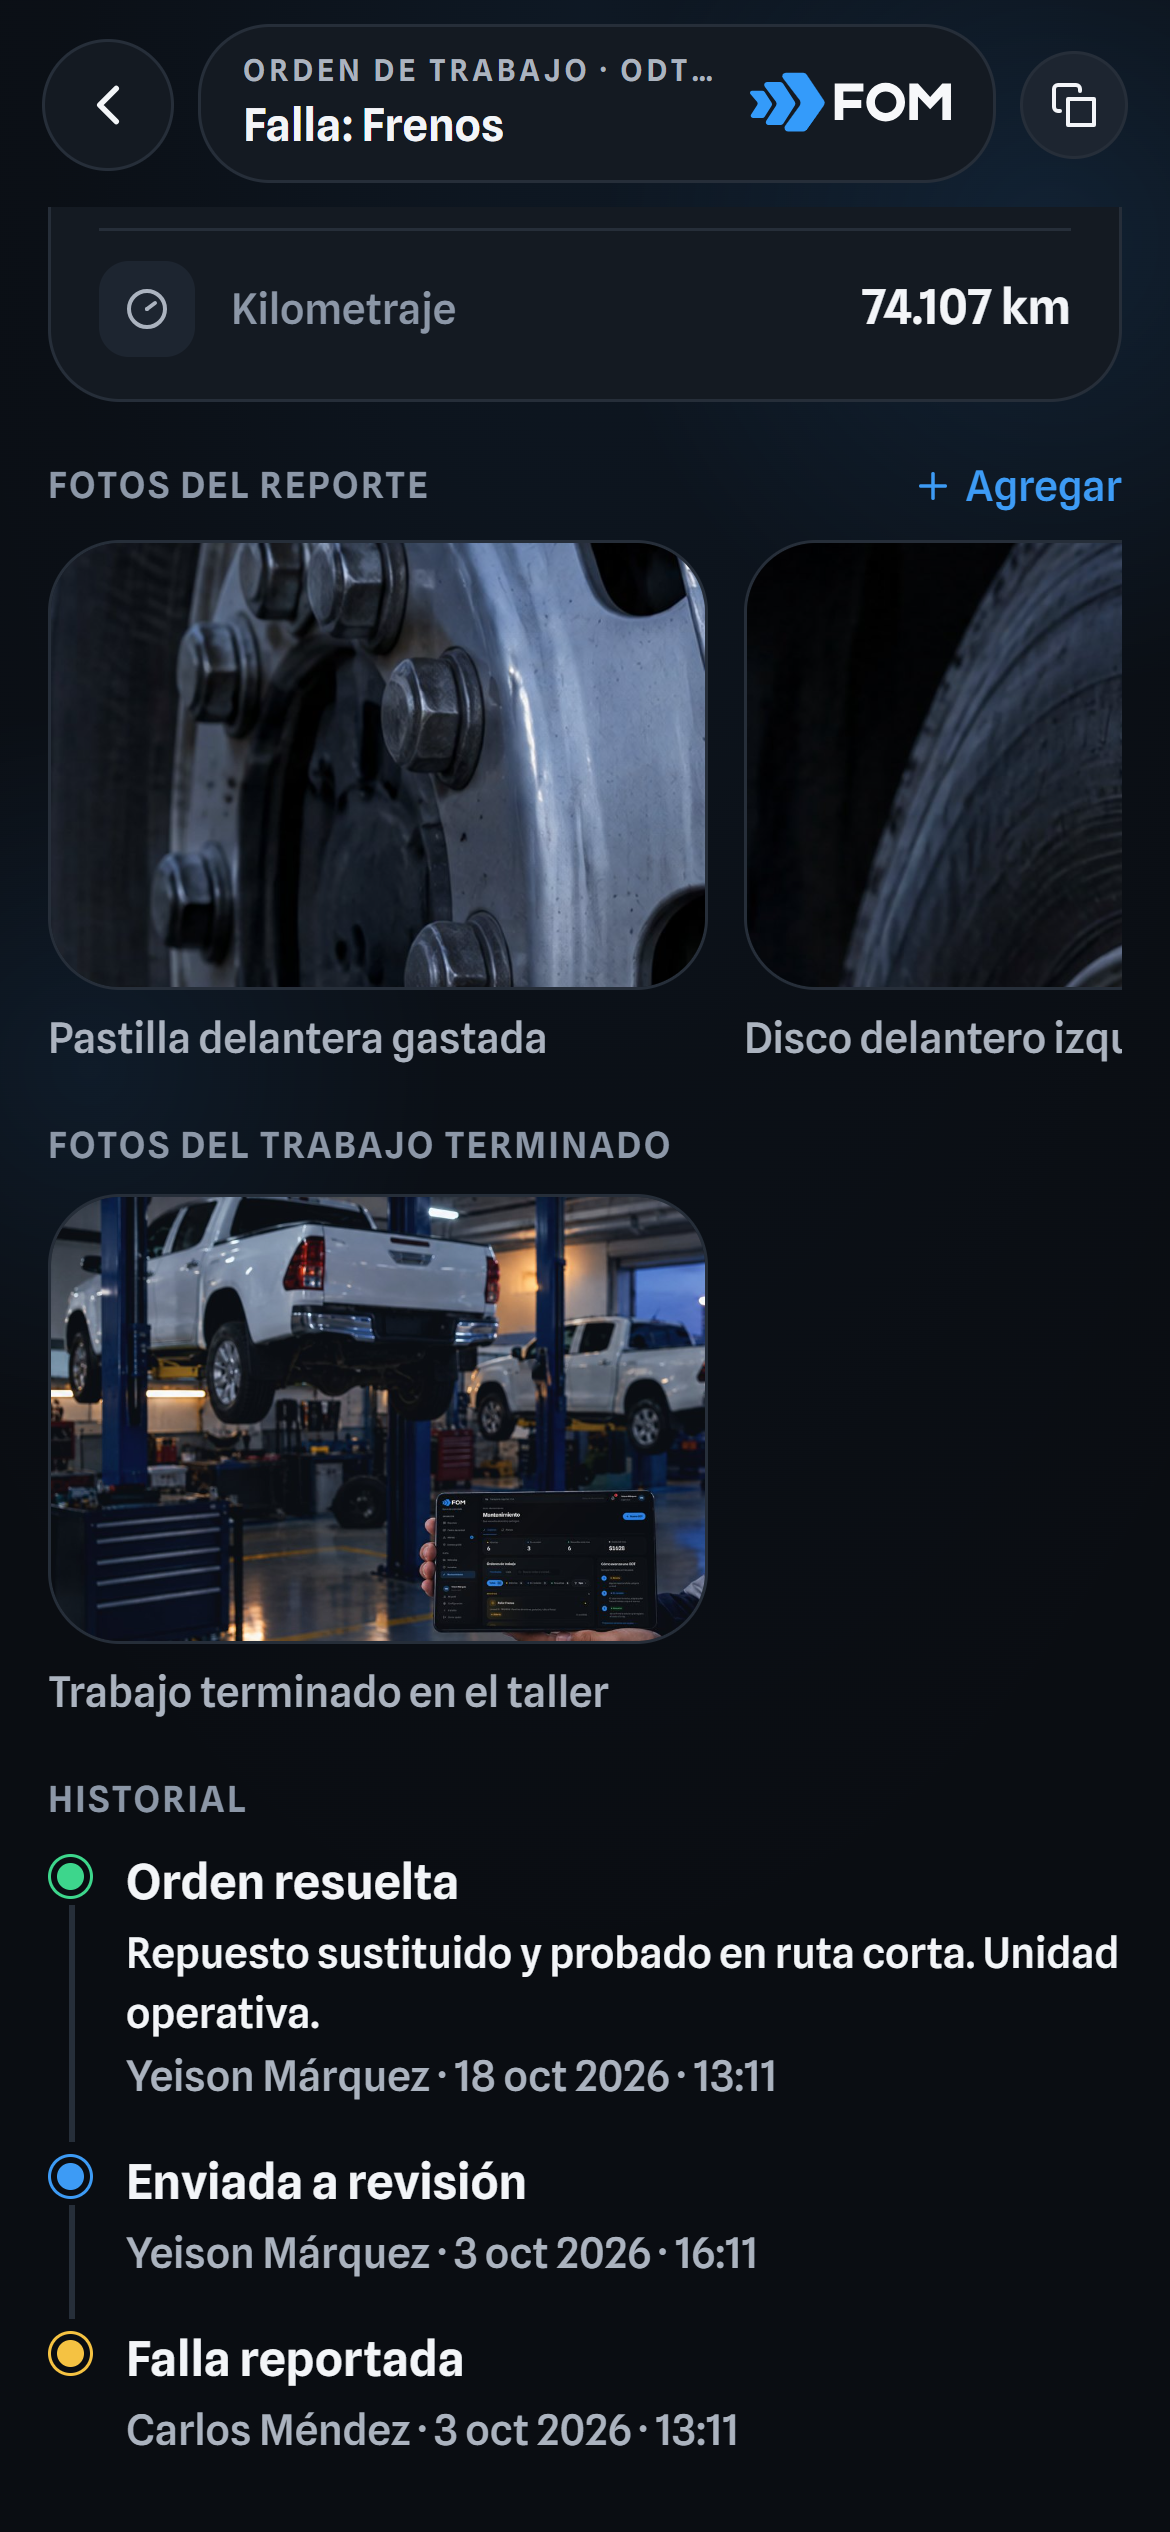
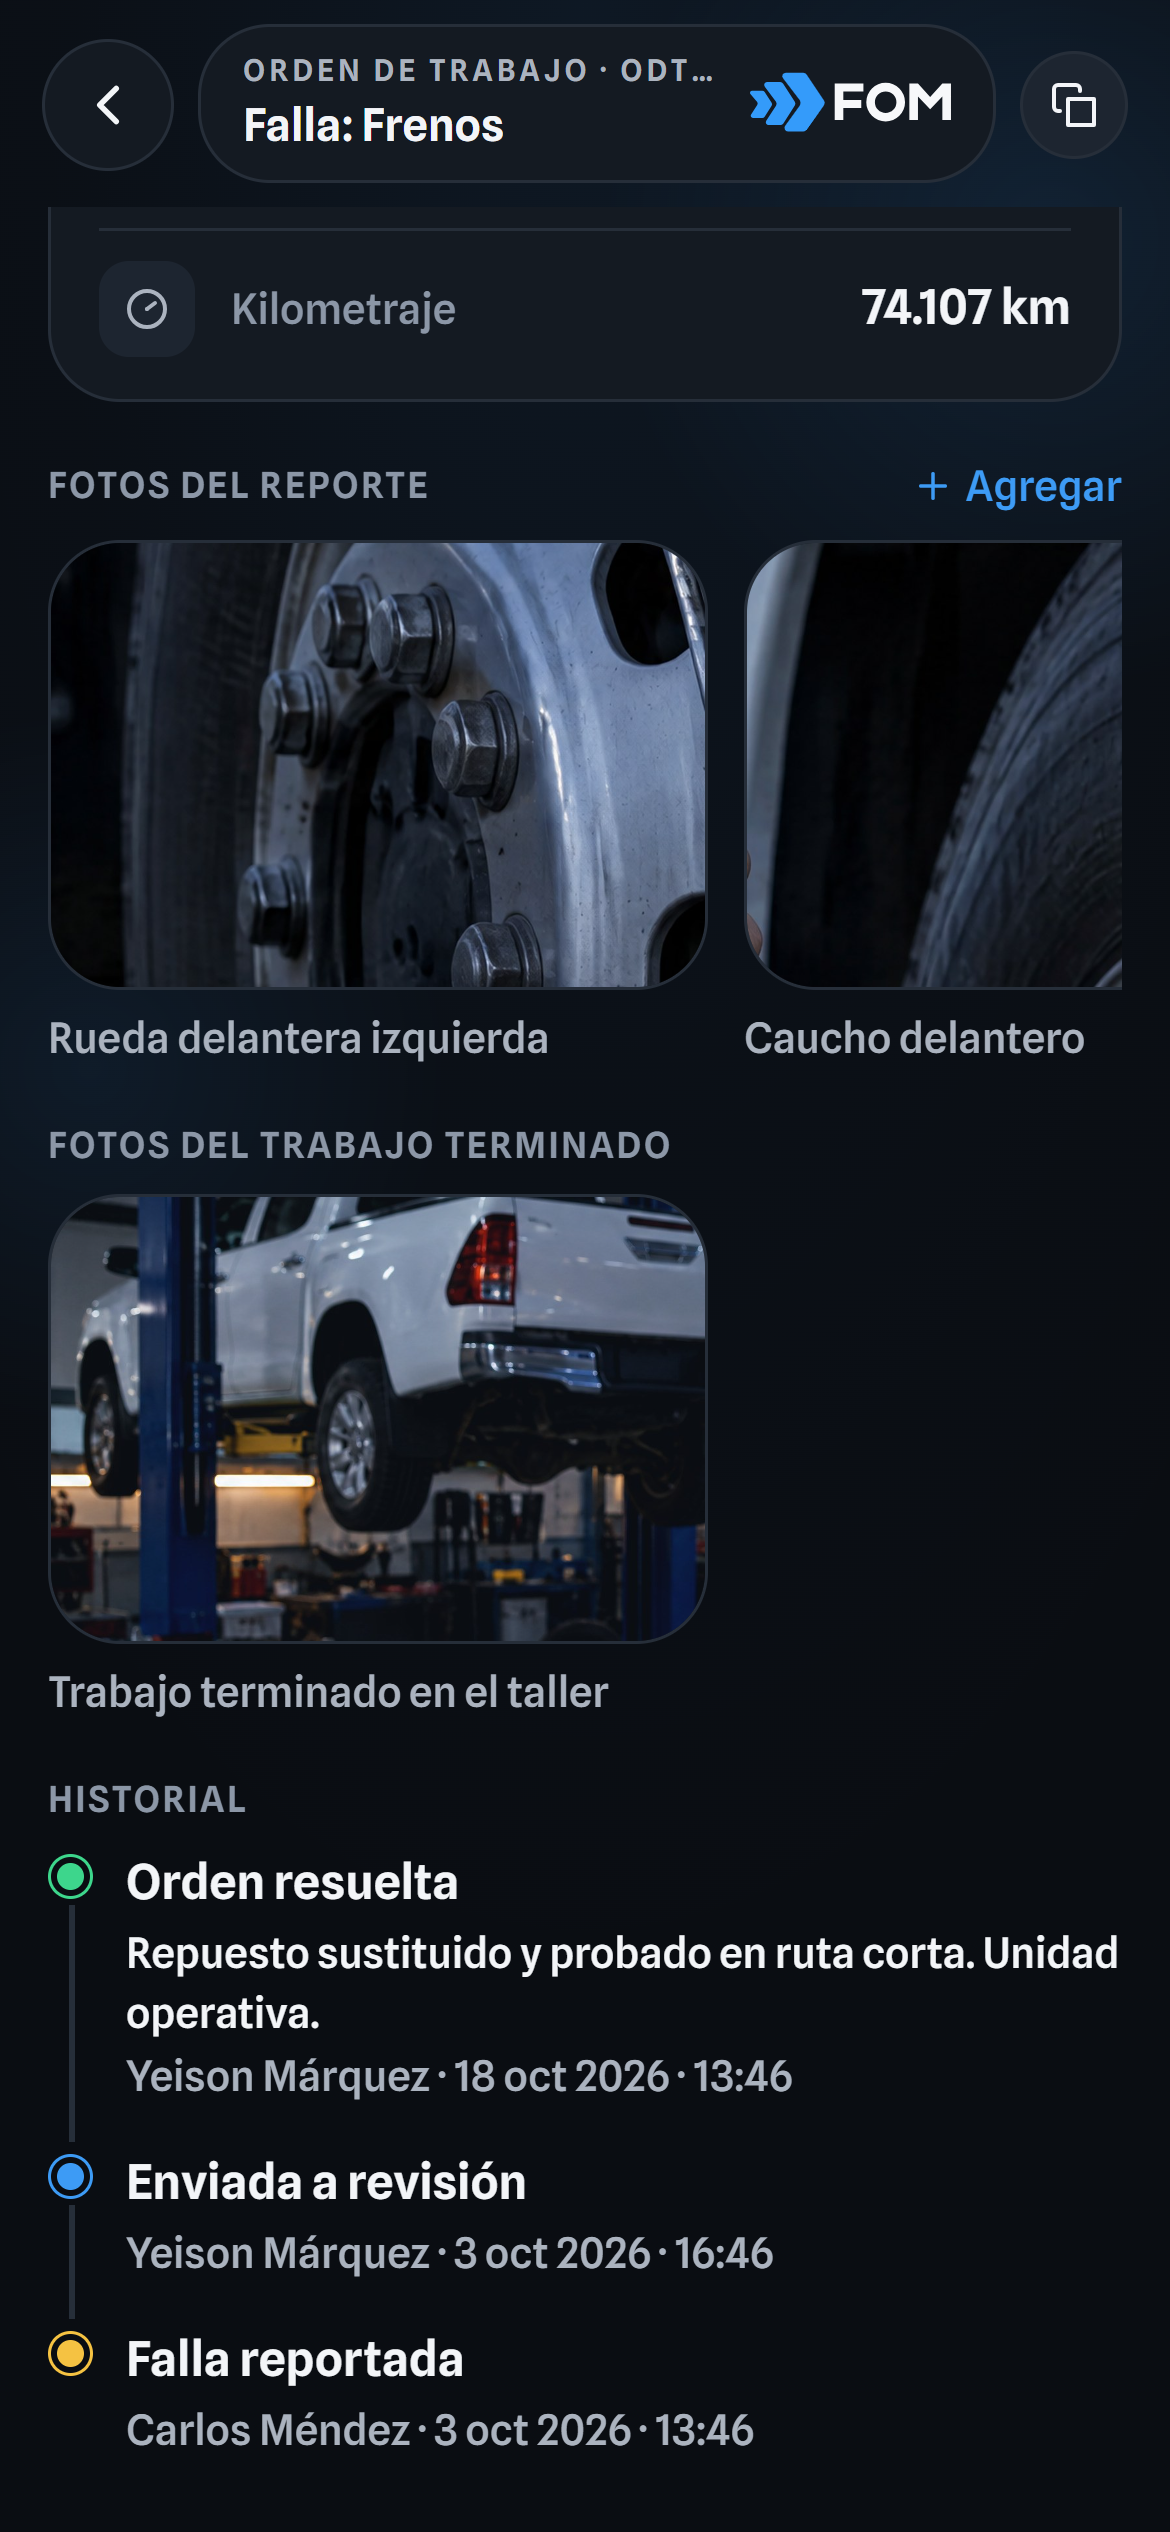
Capturas de la app real con el servidor de prueba: conductor y supervisor completos (44), índice con las parejas de la web, datos de demo más realistas y fuera las fotos de órdenes hechas con IA (T-147)

diff --git a/tools/app-demo-api/preparar_fotos.py b/tools/app-demo-api/preparar_fotos.py
@@ -1,85 +1,64 @@
-# Fotos de la demo de la app (T-147), sacadas de imágenes que ya están en el repo. Nada de IA.
+# Fotos de la demo de la app (T-147): recorta fotos de vehículos con LICENCIA LIBRE al tamaño
+# que pide cada sitio de la app. Nada generado con IA ni sacado de las fotos de la web.
 #
-#   python tools/app-demo-api/preparar_fotos.py
+#   python tools/app-demo-api/preparar_fotos.py <nombre> <foto de origen> [x0 y0 x1 y1]
 #
-# - hilux-2022.png: la Hilux 2022 del panel (src/assets/hilux.png, render con transparencia
-#   suave y bordes limpios), pintada en plata como la Unidad 01 y sin la matrícula de muestra. La de la app (fom-driver-juan/assets/.../hilux.png) tiene el borde serruchado y
-#   un damero pegado detrás de los vidrios: capturar.mjs sirve ésta en su lugar.
-# - falla-1/2, luz-trasera, taller: recortes de fotos del paquete de la web.
-import colorsys
+# <nombre> es uno de los de abajo; la caja opcional (px de la foto de origen) elige el recorte
+# a mano; sin caja se centra. La foto queda en fotos/ y el servidor falso la sirve sola: lo que
+# no está en fotos/ no sale en la app (la orden se ve sin fotos, la unidad sin vehículo).
+#
+# - toyota-hilux.png   la unidad (Toyota Hilux) en la tarjeta de Reportar, la ficha y Mi unidad.
+#                       (datos.mjs → fotoDeVehiculo busca <marca>-<modelo>[-16x9|-4x3].jpg|.png aquí y
+#                       en comparativa/fotos-vehiculos/recortes; solo la Hilux sale en la app).
+#                       La app la pinta con «contain» sobre la tarjeta oscura: mejor recortada al
+#                       vehículo entero, 3/4 delantero mirando a la izquierda, con poco aire.
+#                       Si trae fondo, se ve como un rectángulo: lo ideal es fondo transparente.
+# - falla-1.jpg / falla-2.jpg  fotos del reporte de una orden de frenos (rueda, caucho).
+# - taller.jpg                 foto del trabajo terminado (la camioneta en el taller).
+import sys
 from pathlib import Path
 
-from PIL import Image, ImageDraw
+from PIL import Image
 
-RAIZ = Path(__file__).resolve().parents[2]
 SALIDA = Path(__file__).resolve().parent / 'fotos'
-SALIDA.mkdir(exist_ok=True)
+
+# nombre → (ancho, alto) final
+TAMANOS = {
+    'toyota-hilux.png': (1360, 820),
+    'falla-1.jpg': (1000, 750),
+    'falla-2.jpg': (1000, 750),
+    'taller.jpg': (1000, 750),
+}
 
 
-def sombra_de_piso(im, dx=0, dy=0):
-    # La sombra del piso viene en gris OPACO (pensada para fondo blanco): sobre la tarjeta
-    # oscura se veía como una mancha clara. Debajo de la carrocería, todo lo gris que no es
-    # caucho pasa a sombra de verdad: negro, más opaco donde la original era más oscura.
+def recortar(nombre, origen, caja=None):
+    ancho, alto = TAMANOS[nombre]
+    im = Image.open(origen)
+    im = im.convert('RGBA' if nombre.endswith('.png') else 'RGB')
+    if caja:
+        im = im.crop(caja)
+    # Recorte centrado a la proporción final, sin deformar.
     w, h = im.size
-    px = im.load()
-    ruedas = [(692 + dx, 672 + dy, 140), (1234 + dx, 483 + dy, 112), (190 + dx, 615 + dy, 118)]  # centro y radio
-
-    def en_piso(x, y):
-        return y > h * 0.6
-
-    for y in range(h):
-        for x in range(w):
-            r, g, b, a = px[x, y]
-            if not a or not en_piso(x, y) or max(r, g, b) - min(r, g, b) >= 30:
-                continue
-            # Los rines (claros) se respetan enteros; del caucho, lo oscuro.
-            if any((x - cx) ** 2 + (y - cy) ** 2 < (rr * 0.66) ** 2 for cx, cy, rr in ruedas):
-                continue
-            lum = 0.2126 * r + 0.7152 * g + 0.0722 * b
-            if lum < 58:
-                continue
-            px[x, y] = (0, 0, 0, int(min(190, max(0, (250 - lum) * 1.5)) * a / 255))
-
-
-def hilux():
-    im = Image.open(RAIZ / 'src/assets/hilux.png').convert('RGBA')
-    w, h = im.size
-    px = im.load()
-    # Antes de pintar: la carrocería todavía es roja y no se confunde con la sombra gris.
-    x0, y0, _, _ = im.getbbox()
-    sombra_de_piso(im, x0, y0)
-    # Rojo → plata: lo rojo (también los brillos rosados) pasa a gris con su mismo sombreado.
-    # Las luces traseras (al fondo, a la derecha) se dejan rojas.
-    for y in range(h):
-        for x in range(w):
-            r, g, b, a = px[x, y]
-            if a == 0:
-                continue
-            hue, sat, val = colorsys.rgb_to_hsv(r / 255, g / 255, b / 255)
-            rojo = (hue < 0.06 or hue > 0.93) and (sat > 0.18 or (sat > 0.06 and val > 0.55))
-            if rojo and not (x > w * 0.955 and y < h * 0.42):
-                v = int(min(246, 10 + val * 255 * 0.9))
-                px[x, y] = (v - 3, v, v + 4, a)
-    # La matrícula de muestra («HUM3D»), en blanco liso, sin letras.
-    d = ImageDraw.Draw(im)
-    d.polygon([(64, 99 + 443), (208, 115 + 443), (208, 162 + 443), (61, 146 + 443)], fill=(232, 234, 237, 255))
-    # Recorte a lo que de verdad se ve (sin la sombra tenue de los extremos): así ocupa en la
-    # tarjeta lo mismo que la foto de la app, que es más apaisada.
-    im = im.crop(im.getchannel('A').point(lambda a: 255 if a > 110 else 0).getbbox())
-    im.save(SALIDA / 'hilux-2022.png', optimize=True)
-    return im
-
-
-def recortes():
-    a = Image.open(RAIZ / 'comparativa/web-v8-fotos/fotos-generadas-higgsfield/tecnico-telefono-vacio-4k.png').convert('RGB')
-    a.crop((3200, 1300, 3840, 1780)).resize((1000, 750), Image.LANCZOS).save(SALIDA / 'falla-1.jpg', quality=88)
-    a.crop((3160, 640, 3840, 1150)).resize((1000, 750), Image.LANCZOS).save(SALIDA / 'falla-2.jpg', quality=88)
-    b = Image.open(RAIZ / 'comparativa/web-v8-fotos/maestros/taller-mantenimiento.jpg').convert('RGB')
-    b.crop((0, 40, 1000, 790)).resize((1000, 750), Image.LANCZOS).save(SALIDA / 'taller.jpg', quality=88)
-    b.crop((380, 0, 1100, 620)).resize((900, 775), Image.LANCZOS).save(SALIDA / 'luz-trasera.jpg', quality=88)
+    objetivo = ancho / alto
+    if w / h > objetivo:
+        nw = round(h * objetivo)
+        im = im.crop(((w - nw) // 2, 0, (w - nw) // 2 + nw, h))
+    else:
+        nh = round(w / objetivo)
+        im = im.crop((0, (h - nh) // 2, w, (h - nh) // 2 + nh))
+    im = im.resize((ancho, alto), Image.LANCZOS)
+    SALIDA.mkdir(exist_ok=True)
+    destino = SALIDA / nombre
+    if nombre.endswith('.png'):
+        im.save(destino, optimize=True)
+    else:
+        im.save(destino, quality=88)
+    return destino
 
 
 if __name__ == '__main__':
-    recortes()
-    hilux()
-    print('fotos listas en', SALIDA)
+    if len(sys.argv) not in (3, 7) or sys.argv[1] not in TAMANOS:
+        print(__doc__ or '', 'Nombres:', ', '.join(TAMANOS))
+        sys.exit(1)
+    caja = tuple(int(v) for v in sys.argv[3:7]) if len(sys.argv) == 7 else None
+    print('lista:', recortar(sys.argv[1], sys.argv[2], caja))

diff --git a/comparativa/web-v8-fotos/capturas-app/INDICE-APP.md b/comparativa/web-v8-fotos/capturas-app/INDICE-APP.md
@@ -1,0 +1,128 @@
+# Capturas de la APP real (T-147)
+
+La app de Juan (`fom-driver-juan`, Expo web) con datos de demostración del servidor falso
+`tools/app-demo-api` (Transporte Lago Sur, Zulia). Teléfono 390 × 844 px CSS a 3x (1170 × 2532),
+modo oscuro, «reducir movimiento». Cómo se sacan: ver los comentarios de
+`tools/app-demo-api/servidor.mjs`, `app-expo.mjs` y `capturar.mjs`.
+
+Cuentas: conductor@fom.com.ve (Carlos Méndez, Unidad U-001 · Z69FC7W, Toyota Hilux 2022) y
+supervisor@fom.com.ve (Yeison Márquez).
+
+Ajuste en las capturas: en la web de la app, react-native-web ignora el `paddingTop` /
+`paddingLeft` de las tarjetas de cifras con ícono (`KpiResumen`) y el ícono tapa el título. En el
+teléfono salen bien. Antes de cada foto se les pone el relleno que pide el código
+(70 px arriba / 80 px a la izquierda). Afecta a m-sup-resumen y m-sup-resumen-cifras.
+
+## Cada captura
+
+Columna «Repetir»: **foto** = sale la Hilux que traía el disco (no vale, hay que sacarla otra vez
+con la foto con licencia); **IA** = salen fotos de orden recortadas de imágenes generadas con IA
+(se borraron de `tools/app-demo-api/fotos`; hay que repetirla con fotos con licencia o sin fotos).
+
+| Archivo (3x/) | Rol | Pantalla | Reemplaza a (web) | Repetir |
+|---|---|---|---|---|
+| m-cond-inicio.png | Conductor | Mi unidad, hoja abierta: Hilux, 61 km/h, placa | cap-movil-cond-inicio | foto |
+| m-cond-inicio-indice.png | Conductor | Mi unidad: índice 83/100 «Puedes mejorar» | — (extra) | |
+| m-cond-inicio-telemetria.png | Conductor | Mi unidad: telemetría y odómetro | — (extra) | |
+| m-cond-mapa.png | Conductor | Mi mapa (la unidad en el mapa, SOS) | cap-movil-cond-mapa | |
+| m-cond-perfil.png | Conductor | Mi perfil: índice 83/100 y eventos por 100 km | cap-movil-cond-perfil | |
+| m-cond-inspeccion.png | Conductor | Inspección diaria (hoja por llenar) | — (extra) | |
+| m-cond-insp-foto.png | Conductor | Inspección: falla con foto | — (extra) | IA |
+| m-insp-resultado.png | Conductor | Resultado de inspección con observación | cap-movil-insp-resultado | |
+| m-insp-bloqueada.png | Conductor | Inspección bloqueada (no puede salir) | cap-movil-insp-bloqueada | |
+| m-cond-mantenimiento.png | Conductor | Mantenimiento de mi unidad | cap-movil-cond-mantenimiento | |
+| m-cond-mantenimiento-lista.png | Conductor | Mantenimiento: lista de órdenes | — (extra) | |
+| m-cond-asignadas.png | Conductor | Asignadas a ti (2 órdenes) | cap-movil-mnt-asignadas | |
+| m-cond-reportar.png | Conductor | Reportar una falla (frenos, alta) | cap-movil-mnt-reportar | foto |
+| m-cond-reportar-fotos.png | Conductor | Reportar una falla con fotos | cap-movil-mnt-reportar-fotos | foto + IA |
+| m-cond-reportar-larga.png | Conductor | Reportar una falla, pantalla larga | — (extra) | foto + IA |
+| m-cond-orden-resuelta.png | Conductor | Orden resuelta (cierre y costo) | — (extra) | |
+| m-cond-orden-fotos.png | Conductor | Orden: fotos del reporte y del cierre | — (extra) | IA |
+| m-cond-orden-larga.png | Conductor | Orden entera, pantalla larga | — (extra) | IA |
+| m-orden-historial.png | Conductor | Orden: fotos e historial | — (extra) | IA |
+| m-sup-resumen.png | Supervisor | Resumen: flota 26 · 15 en marcha, ODT, alertas, mapa | cap-movil-sup-resumen | |
+| m-sup-resumen-unidad.png | Supervisor | Resumen: vehículo seleccionado (U-001 con foto) | — (extra) | |
+| m-sup-resumen-cifras.png | Supervisor | Resumen: inspecciones, mantenimiento, documentos, manejo | — (extra) | |
+| m-sup-vehiculos.png | Supervisor | Vehículos: cifras y mapa | cap-movil-sup-vehiculos | |
+| m-sup-vehiculos-lista.png | Supervisor | Vehículos: No pueden salir / Atención | — (extra) | |
+| m-sup-unidad.png | Supervisor | Ficha de la Unidad U-001 (con foto) | — (extra) | |
+| m-sup-mapa.png | Supervisor | Mapa de la flota (26 unidades) | cap-movil-sup-mapa | |
+| m-sup-mapa-unidad.png | Supervisor | Mapa con U-001 elegida | cap-movil-sup-mapa-unidad | |
+| m-sup-recorrido.png | Supervisor | Recorrido de U-001 (viajes y paradas) | — (extra) | |
+| m-sup-mantenimiento.png | Supervisor | Mantenimiento: abiertas, en revisión, resueltas | cap-movil-sup-mantenimiento | |
+| m-sup-mantenimiento-lista.png | Supervisor | Mantenimiento: órdenes, lo más nuevo arriba | — (extra) | |
+| m-sup-orden.png | Supervisor | Orden abierta (frenos U-019) | — (extra) | |
+| m-sup-nueva-odt.png | Supervisor | Nueva ODT llena (U-004, motor, alta) | — (extra) | |
+| m-sup-planes.png | Supervisor | Planes de mantenimiento | — (extra) | |
+| m-sup-plan.png | Supervisor | Plan «Cambio de aceite y filtro» por unidad | cap-movil-mnt-plan (la web muestra «Nuevo plan») | |
+| m-sup-fotos.png | Supervisor | Orden: fotos del reporte y del cierre | cap-movil-mnt-fotos | IA |
+| m-sup-resuelta.png | Supervisor | Orden resuelta | cap-movil-mnt-resuelta | |
+| m-sup-inspecciones.png | Supervisor | Inspecciones: 17 de 26 hoy, requiere atención | cap-movil-sup-inspecciones | |
+| m-sup-insp-historial.png | Supervisor | Inspecciones: historial por persona | cap-movil-insp-historial | |
+| m-sup-usuarios.png | Supervisor | Usuarios | — (extra) | |
+| m-sup-conductor.png | Supervisor | Perfil de Carlos Méndez (índice y eventos) | cap-movil-sup-conductor | |
+| m-sup-reportes.png | Supervisor | Reportes (tipo, período, alcance) | cap-movil-sup-reportes | |
+| m-sup-alertas.png | Supervisor | Alertas (8 sin leer) | cap-movil-sup-alertas | |
+| m-sup-perfil.png | Supervisor | Mi perfil (Más) | — (extra) | |
+| m-sup-areas.png | Supervisor | Áreas de la empresa | cap-movil-areas-vehiculos (parcial) | |
+
+## Las 23 cap-movil-* de la web y su pareja
+
+| Web (`src/assets/marketing/v8/`) | App (3x/) |
+|---|---|
+| cap-movil-areas-vehiculos | m-sup-areas (parcial: la app lista las áreas, no las unidades de cada una) |
+| cap-movil-cond-inicio | m-cond-inicio (repetir con la foto) |
+| cap-movil-cond-mantenimiento | m-cond-mantenimiento |
+| cap-movil-cond-mapa | m-cond-mapa |
+| cap-movil-cond-perfil | m-cond-perfil |
+| cap-movil-insp-bloqueada | m-insp-bloqueada |
+| cap-movil-insp-historial | m-sup-insp-historial |
+| cap-movil-insp-resultado | m-insp-resultado |
+| cap-movil-mnt-asignadas | m-cond-asignadas |
+| cap-movil-mnt-fotos | m-sup-fotos (repetir: fotos IA) |
+| cap-movil-mnt-plan | m-sup-plan (la web enseña el formulario «Nuevo plan»; la app, el plan con sus unidades) |
+| cap-movil-mnt-reportar | m-cond-reportar (repetir con la foto) |
+| cap-movil-mnt-reportar-fotos | m-cond-reportar-fotos (repetir: foto + IA) |
+| cap-movil-mnt-resuelta | m-sup-resuelta |
+| cap-movil-sup-alertas | m-sup-alertas |
+| cap-movil-sup-conductor | m-sup-conductor |
+| cap-movil-sup-inspecciones | m-sup-inspecciones |
+| cap-movil-sup-mantenimiento | m-sup-mantenimiento |
+| cap-movil-sup-mapa | m-sup-mapa |
+| cap-movil-sup-mapa-unidad | m-sup-mapa-unidad |
+| cap-movil-sup-reportes | m-sup-reportes |
+| cap-movil-sup-resumen | m-sup-resumen |
+| cap-movil-sup-vehiculos | m-sup-vehiculos |
+
+Todas tienen pareja; la de áreas y la de plan son parciales.
+
+## Fotos con mano (INDICE.md) y qué captura de la app llevan
+
+| Foto | Pantalla que muestra | Captura de la app |
+|---|---|---|
+| conductor-cabina | Mi unidad (Reportando, 83/100) | m-cond-inicio (repetir con la foto) |
+| conductor-sos | Mi unidad | m-cond-inicio (repetir con la foto) |
+| mano-app-perfil | Mi perfil del conductor, 83/100 y eventos | m-cond-perfil |
+| tecnico-app-unidad | Inspecciones | m-sup-inspecciones (o m-cond-inspeccion) |
+| fila-flota (tableta) | Alertas | m-sup-alertas |
+| taller-mantenimiento (tableta) | Mantenimiento | m-sup-mantenimiento |
+| inicio-hero-movil-v | Resumen | m-sup-resumen |
+| plataforma-hero-movil-v | Centro de control (mapa) | m-sup-mapa |
+| que-ofrecemos-hero-movil-v | Mantenimiento | m-sup-mantenimiento |
+
+Las de monitor o laptop (hero-monitor-carretera, oficina-*, laptop-vehiculos, operadora-mapa,
+patio-monitor-mapa) son del panel de escritorio: no llevan captura de la app.
+
+## Foto del vehículo
+
+La app solo pinta foto para la Toyota Hilux (su catálogo de imágenes); las demás marcas salen con
+la silueta. `capturar.mjs` cambia esa imagen por la de `datos.mjs → fotoDeVehiculo('Toyota',
+'Hilux')`: primero `tools/app-demo-api/fotos/toyota-hilux-16x9.jpg` (copia), si no
+`comparativa/fotos-vehiculos/recortes/toyota-hilux-16x9.jpg`. Si no hay, sale vacío.
+
+Dónde se ve y qué tamaño tiene en pantalla (px CSS, se pinta con «contain», sin recortar):
+- Mi unidad del conductor (hoja abierta): ancho completo × 150.
+- Reportar una falla / Nueva ODT: tarjeta de la unidad, unos 150 × 110.
+- Resumen del supervisor, vehículo seleccionado: unos 225 × 150.
+- Ficha de la unidad: recuadro de unos 84 × 84.
+La 16:9 encaja bien en todas; con fondo transparente se vería mejor (ahora sale como rectángulo).
